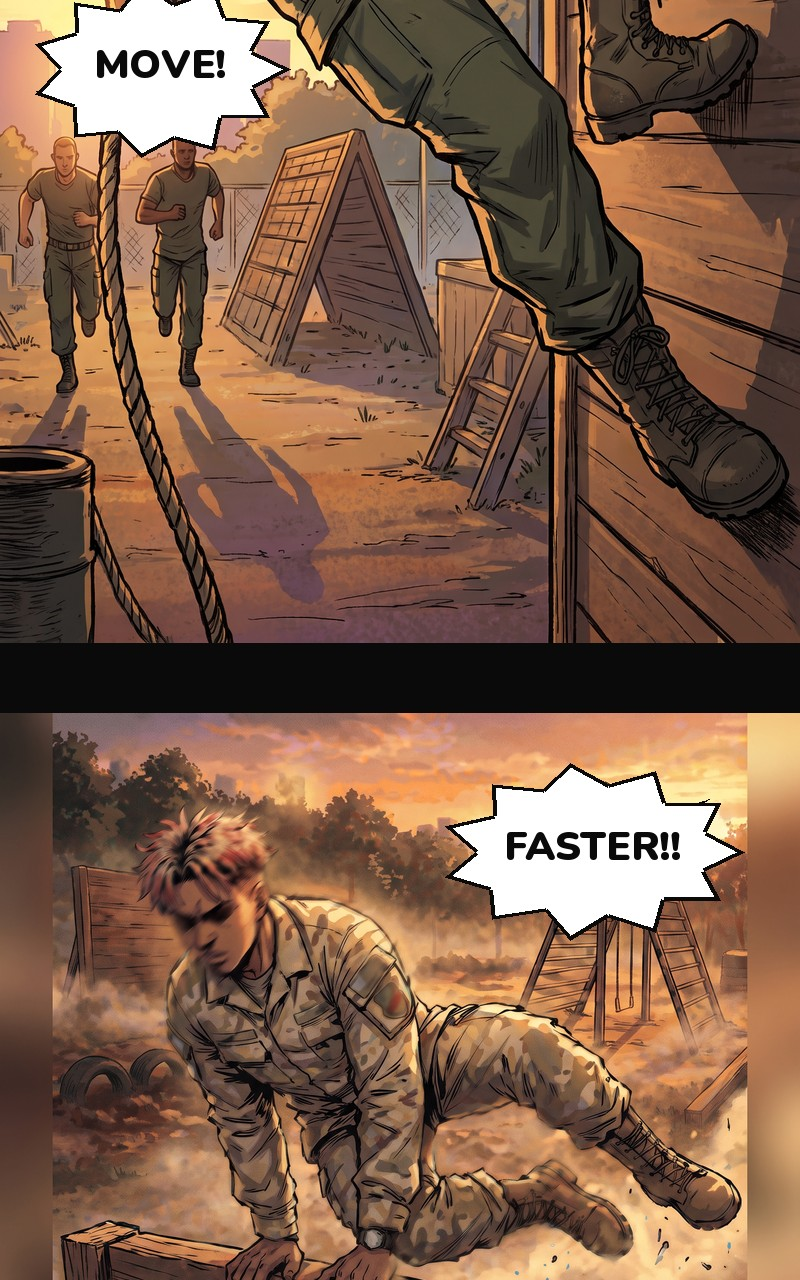
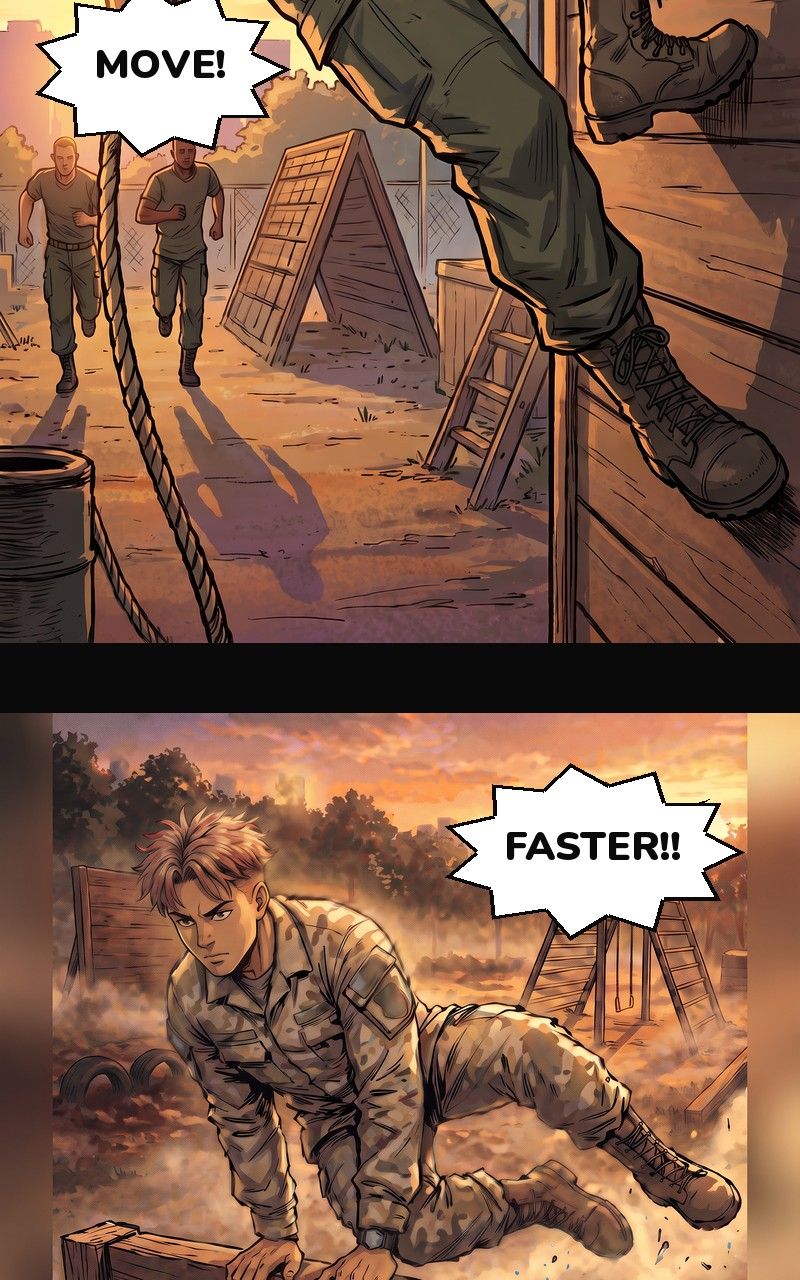
HOSHOKU vertical: clear approval gates 1-4, mark captions proposed
- Verified against source text layers: 'Eyes forward. Squeeze—' and
  'Can't… slow down…' (read in discarded Canva drafts; originals untouched)
- 2b: removed invented BROLY name tape
- 2c: recruit restored to source appearance, identity unassigned
- Broly-voice captions marked PROPOSED; add source-caption render toggle
- Canva parts noted as superseded, not combined; no generation past 14d

Claude-Session: https://claude.ai/code/session_018WvB8YCnLixyatLMop9tAT

diff --git a/drafts/hoshoku-vol1-vertical/pipeline/build.py b/drafts/hoshoku-vol1-vertical/pipeline/build.py
@@ -1,6 +1,9 @@
 import json, sys
 from PIL import Image, ImageDraw
 from letter import *
+import os
+# HOSHOKU_SOURCE_CAPTIONS=1 drops the PROPOSED Broly-voice caption bodies and keeps only the source info headers
+SOURCE_ONLY = os.environ.get('HOSHOKU_SOURCE_CAPTIONS') == '1'
 
 def title_card(kind, lines):
     h = 900 if kind == 'open' else 600
@@ -33,7 +36,7 @@ def render(spec, out):
         for L in b.get('letters', []):
             k = L['k']; x, y = L['x'] * pw, L['y'] * ph
             tgt = (L['tx'] * pw, L['ty'] * ph) if 'tx' in L else None
-            if k == 'caption': caption(im, L.get('head', ''), L.get('body', ''), x, y, L.get('maxw', 520))
+            if k == 'caption': caption(im, L.get('head', ''), '' if SOURCE_ONLY else L.get('body', ''), x, y, L.get('maxw', 520))
             elif k == 'sfx': sfx(im, L['t'], x, y, L.get('size', 90), L.get('big', True), L.get('rot', -8))
             elif k == 'num':
                 d=ImageDraw.Draw(im); f=CAP_BODY(L.get('size',64)); d.text((x,y),L['t'],font=f,fill=tuple(L.get('col',[40,40,48])))

diff --git a/drafts/hoshoku-vol1-vertical/README.md b/drafts/hoshoku-vol1-vertical/README.md
@@ -3,7 +3,23 @@
 A vertical webtoon recreation of the existing manga (Canva `DAG9IhSY4Xo`, pages 1–14).
 
 - **Source:** the original project is the reference and the guide. The story is unchanged.
-- **Manga only.** No claymation material is used anywhere.
+- **Manga only.** No claymation material is used anywhere. The claymation project is separate from this pipeline.
+
+> **Status: technically complete, not canon-locked.** All 52 generated panels are assembled into 55 slices. The edition is not canon-locked until the approval gates below are cleared.
+
+## Approval gates (2026-09-26)
+
+| # | Gate | Status | What was done |
+|---|---|---|---|
+| 1 | Rifle-range line (2e) | ✅ **Verified against source** | The text layer on the original page 2 was enlarged in a Canva draft. It reads **"Eyes forward. Squeeze—"**. The draft was discarded, so the original is unchanged. The Aug-2026 tall page is not used as a source. The lettering stays as it is. |
+| 2 | BROLY name tape (2b) | ✅ **Removed** | Edit pass: the name tape is now a blank strip and nothing else changed (40 credits). |
+| 3 | "Can't… slow down…" (3a) | ✅ **Verified against source** | The covering caption was lifted in a discarded Canva draft. The source text layer reads **"Can't… slow down…"** in full, so nothing is invented. The lettering stays as it is. |
+| 4 | Recruit on the barrier (2c) | ✅ **Fixed; identity unassigned** | Edit pass using the original panel as the reference: short, swept, light-brown/copper hair, lighter skin, no locs, no pink (40 credits). The hair colour is OBSERVED under a sepia grade, so the exact shade is UNVERIFIED. He is **not** labelled as Broly. |
+| 5 | Broly-voice captions | ⏳ **PROPOSED; awaiting approval** | Not canon. `preview_half_res_source_captions.jpg` shows the strip with only the source info headers. You can render either version at 0 credits (see below). |
+| 6 | Canva | ⏸ **Not combined** | The originals are untouched. The 11 parts in `FAHWQyQJp9s` were made **before** gates 2 and 4, so they are superseded until the gates pass. Nothing will be re-uploaded or combined without your OK. |
+| 7 | Chapter 2 scope | ⏸ **Stops at the mirror scene (14d)** | No generation past it until the story beats (Section E) are set. |
+
+Before and after for gates 2 and 4: `reference/gates_2_4_before_after.jpg`.
 
 ## Decisions applied (D'nuke, 2026-09-26)
 
@@ -12,7 +28,7 @@ A vertical webtoon recreation of the existing manga (Canva `DAG9IhSY4Xo`, pages 
 | Format | 800 px wide vertical scroll. Every original panel is recomposed as a tall or insert panel. |
 | Broly's hair | **Approved sheet everywhere:** pink-and-blonde ombré locs (sandy roots, pink ends) on every panel. This replaces the original's short-twist and long-loc switches. |
 | HOSHOKU | Position A is locked. HOSHOKU does not appear in any Ch. 1–2 panel; this matches the original, where he appears only in the emblem. |
-| Captions | Captions are rewritten in **Broly's own wry voice** in HOSHOKU-styled boxes. The original caption *information* (day, time, place) is kept as the mono header on each box. |
+| Captions | **PROPOSED adaptation copy, not canon** (gate 5). Captions are rewritten in **Broly's own wry voice** in HOSHOKU-styled boxes. The original caption *information* (day, time, place) is kept as the mono header on each box. |
 | Dialogue / SFX | Carried over word for word from the original (see flags). No new dialogue or story beats were added. |
 | Tall pages 16–19 of the original | Not used as a source. They changed settings (ENLIST neon, indoor pool, drill instructor). The recreation follows the published spreads. |
 
@@ -21,9 +37,9 @@ A vertical webtoon recreation of the existing manga (Canva `DAG9IhSY4Xo`, pages 
 | What | Where |
 |---|---|
 | **Webtoon upload slices:** 55 JPGs at 800×1280, in reading order | `webtoon_upload/hoshoku_v1_ch1-2_001.jpg` … `_055.jpg` |
-| Half-res preview of the whole strip | `preview_half_res.jpg` |
+| Half-res preview of the whole strip | `preview_half_res.jpg` (proposed captions), `preview_half_res_source_captions.jpg` (source info headers only) |
 | Broly consistency sheet (turnaround, heads, 6 expressions) | `reference/broly_consistency_sheet_v1.jpg` |
-| Canva: 11 tall parts (cover + parts 01–10) | Canva folder **HOSHOKU Vol 1 — Vertical Edition** (`FAHWQyQJp9s`), inside `Hoshoku` |
+| Canva: 11 tall parts (cover + parts 01–10). **Superseded:** made before gates 2 and 4. | Canva folder **HOSHOKU Vol 1 — Vertical Edition** (`FAHWQyQJp9s`), inside `Hoshoku` |
 | OpenArt: all panels, references, and the sheet | OpenArt project **HOSHOKU Manga Vol 1** (`SSv9vVVoeJgYuglRoCHK`) |
 | Full-resolution panel URLs, keyed by original panel ID | `pipeline/panel_sources.json` |
 | Lettering and assembly pipeline (re-runnable) | `pipeline/` (see below) |
@@ -65,8 +81,8 @@ Captions are **PROPOSED** (Broly's voice). Everything else is carried over from 
 | 2b | Thought: "(No excuses.)" Off-panel shout: "MOVE!" |
 | 2c | Off-panel shout: "FASTER!!" |
 | 2d | Off-panel shout: "AGAIN!!" HUFF ×3. Broly: "Just… one more round." |
-| 2e | CLACK, BANG!. Off-panel shout: "Eyes forward. Squeeze—" ⚠ |
-| 3a | CAPTION `BOOTCAMP // DAY 8`: *Lights out. My head didn't get the memo.* Broly: "Can't… slow down…" ⚠ |
+| 2e | CLACK, BANG!. Off-panel shout: "Eyes forward. Squeeze—" (verified) |
+| 3a | CAPTION `BOOTCAMP // DAY 8`: *Lights out. My head didn't get the memo.* Broly: "Can't… slow down…" (verified) |
 | 3b | CAPTION `02:13 AM // COURTYARD`: *Needed air. Any air.* |
 | 3c | Thought: "(Just… breathe.)" ⚠ |
 | 3d | Broly: "…I'm gonna—" |
@@ -86,12 +102,12 @@ Captions are **PROPOSED** (Broly's voice). Everything else is carried over from 
 
 ### Flags
 
-1. **2e:** the range line uses the published reading "Eyes forward. Squeeze—" (UNVERIFIED from a small thumbnail). The Aug-2026 tall page used "Two forward squads—". **Confirm which one.**
-2. **3a:** the second half of "slow down…" was hidden under a caption in the original. It's restored as "down…" (UNVERIFIED).
+1. **2e:** ~~UNVERIFIED~~ **Resolved (gate 1):** the source text layer reads "Eyes forward. Squeeze—".
+2. **3a:** ~~UNVERIFIED~~ **Resolved (gate 3):** the source text layer reads "Can't… slow down…" in full.
 3. **3c:** the original shape was cloud-like with no dot trail, so the thought-vs-speech call is UNVERIFIED. It's lettered as a thought.
 4. **14a:** the original's tiny "#…" number is illegible, so it's **omitted** rather than guessed.
-5. **2b:** the generated art added a **"BROLY" name tape** on the uniform (not in the original). Keep it, or I'll fix it (~40 credits).
-6. **2c:** the recruit's identity is ambiguous in the original. The generated art has pink-toned hair, so it reads as Broly.
+5. **2b:** **Resolved (gate 2):** the invented "BROLY" name tape was removed.
+6. **2c:** **Resolved (gate 4):** the recruit now matches the source's short, swept, non-pink hair. His identity is UNRESOLVED and **not** assigned to Broly.
 7. **9d:** invented vial labels ("VACCINE", "MEDICINE") appeared and were removed with an edit pass (blank labels now).
 8. **14c:** Broly is shirtless at the sink (the original shows a dark top). Minor.
 9. **Captions:** all caption *bodies* are new copy in Broly's voice (PROPOSED). The headers keep the original information.
@@ -103,9 +119,10 @@ Captions are **PROPOSED** (Broly's voice). Everything else is carried over from 
 | Broly consistency sheet | 1 | 40 |
 | Panels: pilot (8) + remaining (44) | 52 | 2,080 |
 | 9d label fix | 1 | 40 |
-| **Total** | **54** | **2,160** |
+| Gate 2 (2b name tape) + gate 4 (2c recruit) | 2 | 80 |
+| **Total** | **56** | **2,240** |
 
-- Balance: 8,507 → **6,347**.
+- Balance: 8,507 → **6,267**.
 - Model: Nano Banana Pro i2i at 2K, 40 credits each.
 - Title and end cards, black beats, lettering, and assembly were done locally: 0 credits.
 
@@ -118,8 +135,11 @@ Captions are **PROPOSED** (Broly's voice). Everything else is carried over from 
 
 Edit `spec_full.json` to move or reword any bubble, then re-render. No regeneration needed.
 
+Set `HOSHOKU_SOURCE_CAPTIONS=1` to render without the PROPOSED Broly-voice caption bodies; only the source info headers are kept.
+
 ## Next
 
-- Assemble the Canva parts into one Canva design (needs your OK before I save edits in Canva).
-- Resolve the flags above.
-- Story beats for Ch. 2 after the mirror scene: the continuation is blocked on your beats (E in the audit). Nothing past page 14 has been generated.
+- **Gate 5:** approve the Broly-voice captions, or switch to source-only headers.
+- **Gate 6:** after the gates clear, re-upload the updated parts to Canva. Combining them still needs your OK.
+- **Gate 7:** Ch. 2 after the mirror scene is blocked on the story beats (E in the audit). Nothing past page 14 has been generated.
+- Open flags: 3c thought vs speech, the 14a number, and the 14c top.

diff --git a/drafts/hoshoku-ch1-ch2-continuity-script.md b/drafts/hoshoku-ch1-ch2-continuity-script.md
@@ -169,7 +169,7 @@ Overlays used on this page: `overlay_vignette_edges`, `overlay_dust_particles`.
 - **Source artwork:** `Panel 06` (`MAG9WkdyrGw`)
 - **Setting/time:** Obstacle course: wooden barrier, dust. Sunset.
 - **Characters:** One recruit in **tan/light camo**. Identity **UNVERIFIED**: the face is partly obscured and the uniform colour differs from Broly's olive fatigues elsewhere.
-- **Appearance / hair:** Short light hair; **UNVERIFIED**.
+- **Appearance / hair:** OBSERVED: short, tousled, swept hair, light warm brown/copper under the sepia grade. Lighter skin tone than Broly elsewhere. No locs. Exact hair colour is **UNVERIFIED** (the thumbnail is too small).
 - **Action:** Climbs over the barrier.
 - **Text / SFX:** "FASTER!!"
 - **Lettering:** `SHOUT-BURST`; speaker **UNVERIFIED** (off-panel)
@@ -199,7 +199,7 @@ Overlays used on this page: `overlay_vignette_edges`, `overlay_dust_particles`.
 - **Action:** Aims and fires.
 - **Text / SFX:**
   - "CLACK" (`sfx_clack`) and "BANG!"
-  - Burst text read as **"Eyes forward. Squeeze—"**: **UNVERIFIED** (small baked text)
+  - Burst text: **"Eyes forward. Squeeze—"**: **VERIFIED** against the source (2026-09-26). The text layer on the original page 2 was enlarged in a discarded Canva draft; nothing was saved.
 - **Lettering:**
   - "CLACK", "BANG!": `SFX-WHITE`
   - Burst text: `SHOUT-BURST`; speaker **UNVERIFIED**
@@ -220,7 +220,7 @@ Layout: a large top-left panel; two stacked panels top-right; two panels on the 
 - **Action:** Sits on a bunk, head down, hands clasped.
 - **Text / SFX:**
   - Caption: "BOOTCAMP — DAY 8" (`p01_p3_caption_bootcamp_day_8`)
-  - Bubble: "Can't… slow d[own]…". Partly hidden: the caption bar covers the second line, so the full reading is **UNVERIFIED**.
+  - Bubble: "Can't… slow down…". In the published page the caption bar covers the second line. The full text **"Can't… slow down…"** is **VERIFIED** from the source text layer (2026-09-26). The caption was lifted in a discarded Canva draft; nothing was saved.
 - **Lettering:**
   - Caption: `CAPTION-TEAL`
   - Bubble: `SPEECH-ROUND`; tail toward Broly, so the speaker is Broly **(by tail)**
@@ -843,7 +843,7 @@ What the ledger shows (OBSERVED only):
 ### CONTRADICTORY (sources disagree)
 
 1. **Hair:** short twists and long locs alternate after the blackout (6-c vs 6-d, 8-b vs 5-c, 13-c vs 13-a). Pages 1–13 conflict with the canon note's "ALWAYS" ombré dreads.
-2. **The range line:** the published baked text reads as "Eyes forward. Squeeze—" (UNVERIFIED), while the tall page has the live text "Two forward squads—".
+2. **The range line:** the published source reads "Eyes forward. Squeeze—" (**VERIFIED** 2026-09-26 from the source text layer). The Aug-2026 tall page has "Two forward squads—", but it is not a source for the vertical edition.
 3. **Tall pages vs published spreads:** setting (neon "ENLIST" vs "RECRUITING CENTER"), time of day (P1 day vs dusk; P7 night vs sunset), indoor vs outdoor pool, the added drill instructor, the dropped "→ DAY 34", and a changed art style.
 4. **P1 alt text** ("at dusk") vs the image (clear daytime sky).
 5. **One line, three letterings:** "no turning back now" is a speech bubble (published), a caption box (tall, `DAG9IhSY4Xo`), and a parenthesised thought (tall, `DAHR7QwZmf8`).

diff --git a/drafts/hoshoku-volume-1-audit.md b/drafts/hoshoku-volume-1-audit.md
@@ -170,6 +170,16 @@ Budget fit: 4 new chapters at ~45 panels is ~180 new panels, the practical ceili
 
 > **Done 2026-09-26:** see `drafts/hoshoku-ch1-ch2-continuity-script.md`.
 
+> **Vertical edition (2026-09-26):** technically complete (Ch. 1 + Ch. 2 to the mirror scene) but **not canon-locked**. Gate status:
+>
+> - Source-verified: "Eyes forward. Squeeze—" and "Can't… slow down…".
+> - Fixed: the BROLY name tape is removed, and the 2-c recruit is restored to the source look with identity unassigned.
+> - Broly-voice captions are PROPOSED, not canon.
+> - Canva parts are not combined.
+> - Nothing is generated past the mirror scene.
+>
+> See `drafts/hoshoku-vol1-vertical/README.md`.
+
 
 **An as-built script extraction of Chapter 1 and the Chapter 2 opening.** For each existing panel, record:
 
